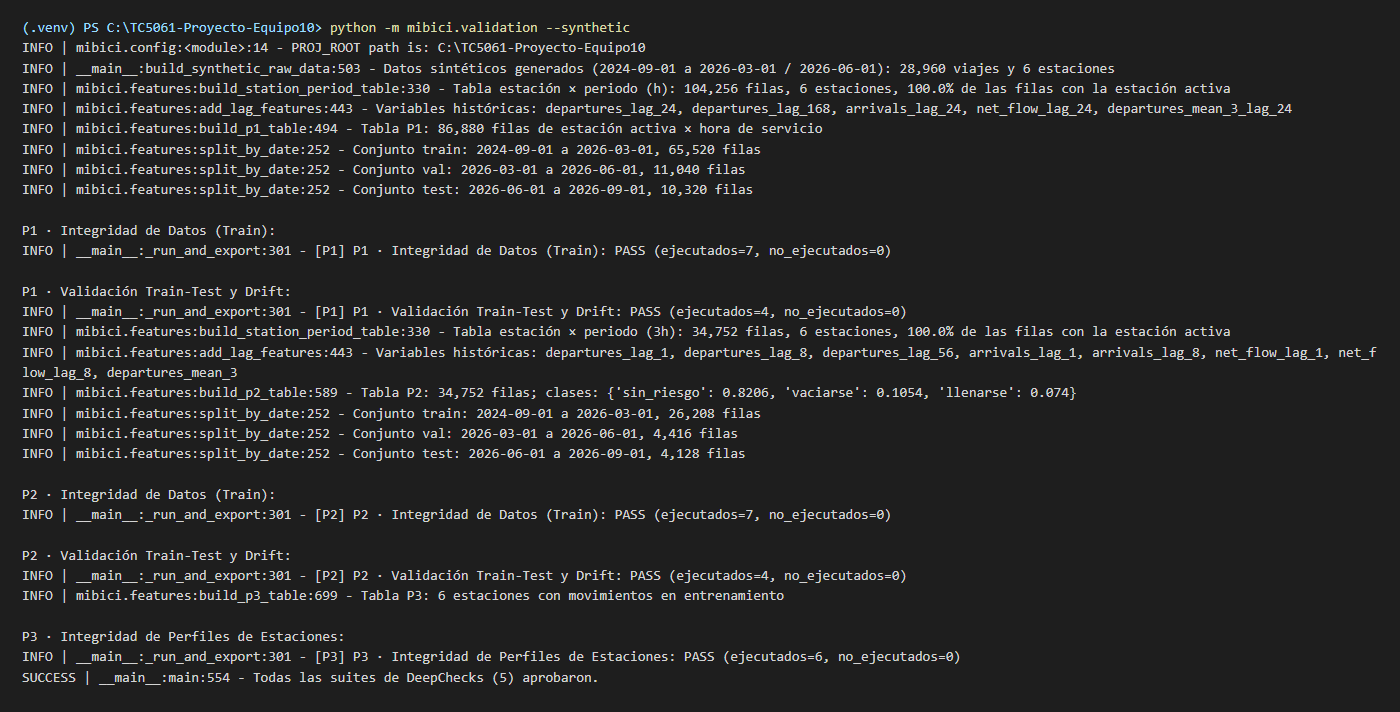
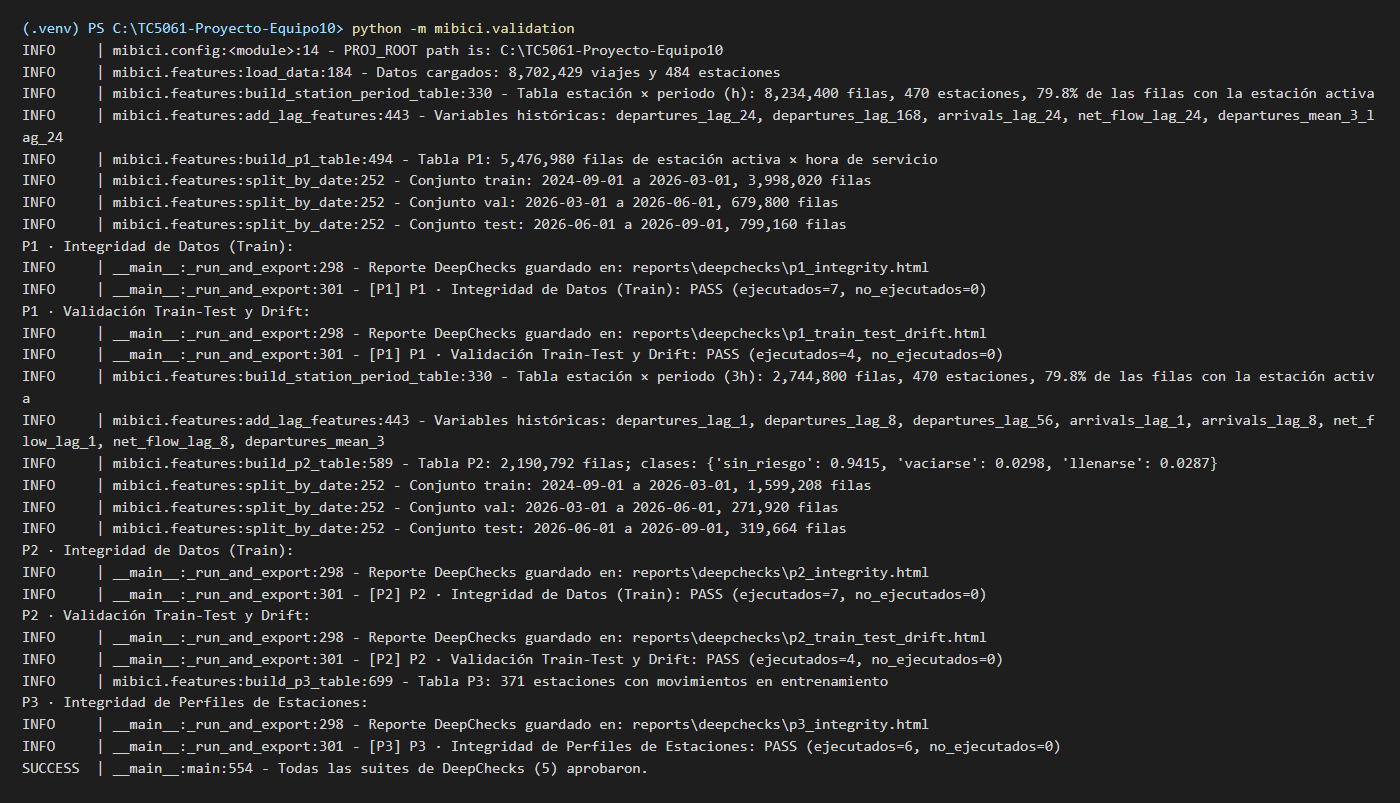
docs(entregas): sustituye la evidencia sintética de DeepChecks por la corrida con datos reales (#34)
Las cinco suites se corrieron con `make check-data` sobre los datos de MiBici descargados y
verificados con `make data` (8.7 millones de viajes, 484 estaciones; versión 2026-11): todas
aprueban. Se actualizan la captura, el reporte de la entrega 03 y la subsección de evidencia
del README; desaparece la nota de que los datos crudos no estaban en la máquina.

Changed region(s): [[0.0, 0.0309, 0.9829, 0.9888]]

diff --git a/docs/entregas/entrega03/secciones/01-entregable.md b/docs/entregas/entrega03/secciones/01-entregable.md
@@ -10,9 +10,9 @@ La carpeta `tests/` tiene 123 pruebas en 10 archivos que cubren las funciones cl
 
 ## 2. Validación de datos con DeepChecks
 
-`mibici/validation.py` construye las tablas de modelado de P1, P2 y P3 y les aplica una suite de integridad (columnas constantes, nulos, duplicados, tipos mezclados, correlaciones y fugas de la etiqueta) y, en P1 y P2, una suite *train-test* (solapamiento de fechas y *drift* de variables y etiqueta), con los umbrales de `config.py`. `make check-data` exporta cinco reportes HTML a `reports/deepchecks/`, y `tests/test_data_validation.py` verifica que las suites aprueben con datos correctos y fallen ante columnas faltantes, datos dañados y fugas temporales. La captura se produjo con `make check-data SYNTHETIC=1`, porque los datos crudos no están en la máquina que generó este reporte; con ellos se repite con `make data` y `make check-data`.
+`mibici/validation.py` construye las tablas de modelado de P1, P2 y P3 y les aplica una suite de integridad (columnas constantes, nulos, duplicados, tipos mezclados, correlaciones y fugas de la etiqueta) y, en P1 y P2, una suite *train-test* (solapamiento de fechas y *drift* de variables y etiqueta), con los umbrales de `config.py`. `make check-data` exporta cinco reportes HTML a `reports/deepchecks/`, y `tests/test_data_validation.py` verifica que las suites aprueben con datos correctos y fallen ante columnas faltantes, datos dañados y fugas temporales. La captura es de `make check-data` sobre los datos reales de la versión `2026-11` (8.7 millones de viajes y 484 estaciones, descargados y verificados con `make data`): las cinco suites aprueban, sin fugas temporales ni *drift* por encima de los umbrales entre entrenamiento y prueba.
 
-![Figura 2. Consola de python -m mibici.validation --synthetic: las cinco suites aprueban.](../figuras/deepchecks_01_consola.png)
+![Figura 2. Consola de python -m mibici.validation con los datos reales: las cinco suites aprueban.](../figuras/deepchecks_01_consola.png)
 
 ## 3. Chequeos de seguridad básicos
 

diff --git a/README.md b/README.md
@@ -798,8 +798,8 @@ python -m pytest tests/test_dataset.py -v
 ### Evidencia de ejecución de las pruebas y los chequeos de seguridad
 
 Capturas de la última ejecución local de los chequeos (1 de noviembre de 2026, Python 3.12, entorno
-virtual nuevo); las de terminal son renders del texto real que imprimió cada comando y la de
-DeepChecks usa el generador sintético (`make check-data SYNTHETIC=1`). El detalle está en el reporte de
+virtual nuevo); las de terminal son renders del texto real que imprimió cada comando, y la de
+DeepChecks corre sobre los datos reales de la versión `2026-11` (`make data` y `make check-data`). El detalle está en el reporte de
 la Entrega 03 ([`docs/entregas/entrega03/`](docs/entregas/entrega03/), `make entrega03`) y GitHub
 Actions conserva la ejecución de los mismos chequeos en cada PR ([Integración continua](#integración-continua)).
 
@@ -807,9 +807,9 @@ Actions conserva la ejecución de los mismos chequeos en cada PR ([Integración 
 
 *`make test`: las 123 pruebas de `tests/` aprobadas.*
 
-![make check-data SYNTHETIC=1: las cinco suites de DeepChecks aprueban](docs/entregas/entrega03/figuras/deepchecks_01_consola.png)
+![make check-data: las cinco suites de DeepChecks aprueban con los datos reales](docs/entregas/entrega03/figuras/deepchecks_01_consola.png)
 
-*`make check-data SYNTHETIC=1`: las cinco suites de DeepChecks aprueban y se exportan los reportes HTML.*
+*`make check-data`: las cinco suites de DeepChecks aprueban sobre los datos reales (8.7 millones de viajes) y se exportan los reportes HTML.*
 
 ![bandit: No issues identified](docs/entregas/entrega03/figuras/bandit_01_resultado.png)
 
